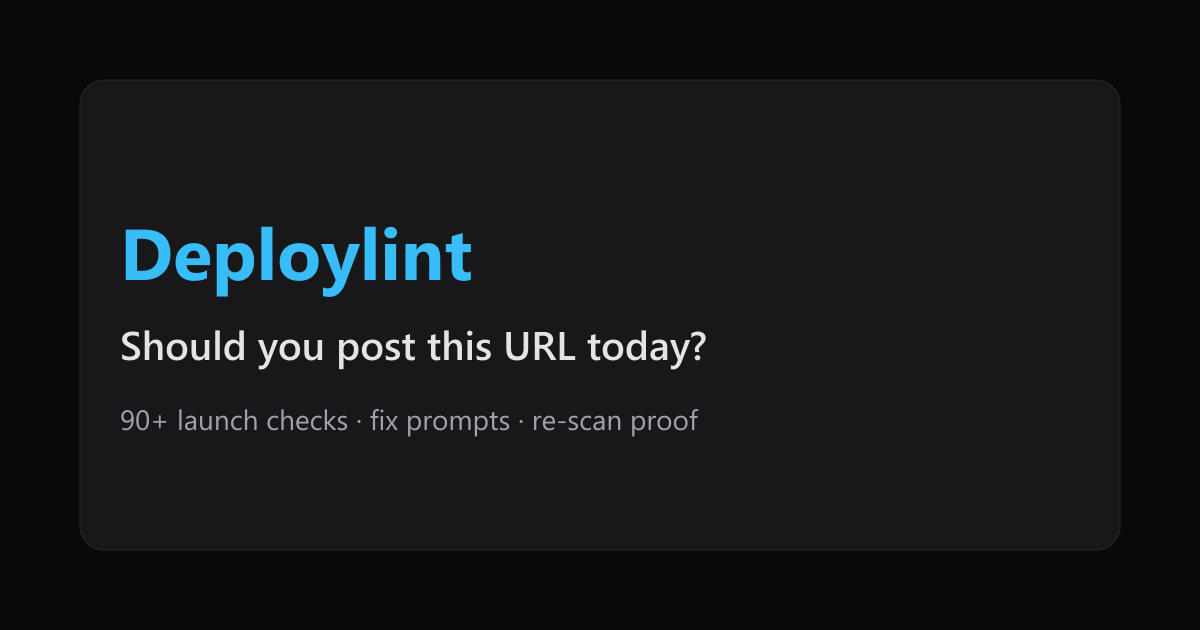
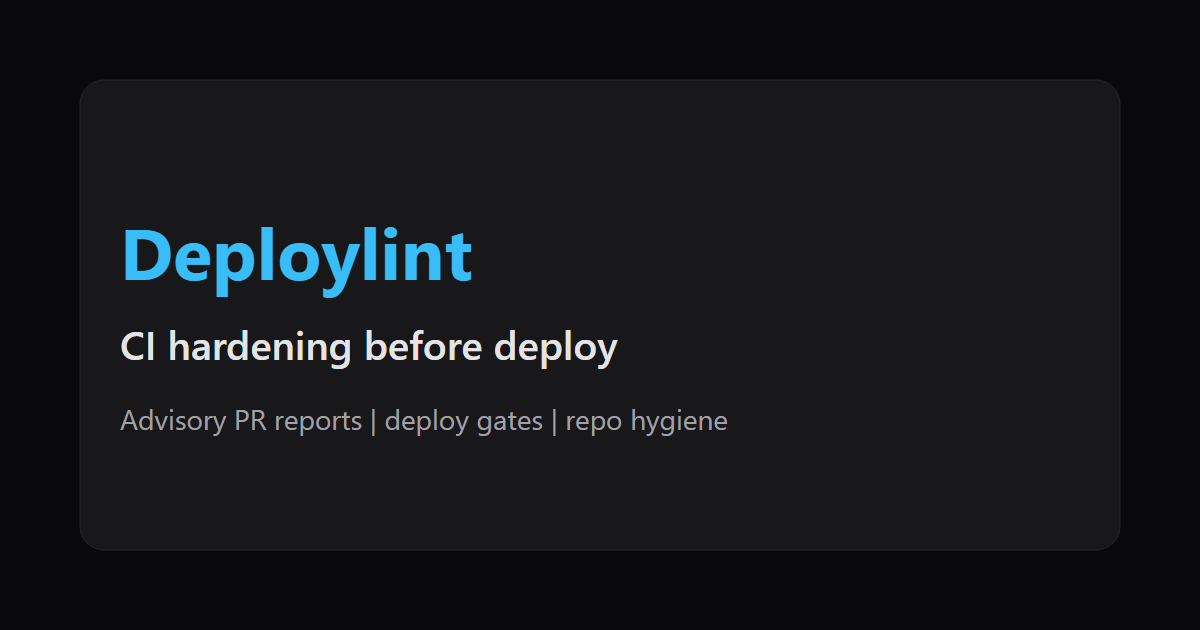
feat(preflight): sharpen CI product positioning

Changed region(s): [[0.0925, 0.5127, 0.5858, 0.6032], [0.0925, 0.6333, 0.6167, 0.6937]]

diff --git a/apps/preflight/src/routes/product-positioning.source.test.ts b/apps/preflight/src/routes/product-positioning.source.test.ts
@@ -6,9 +6,14 @@ import { describe, expect, it } from 'vitest';
 
 const routesDir = dirname(fileURLToPath(import.meta.url));
 const srcDir = join(routesDir, '..');
+const appDir = join(srcDir, '..');
 
 function source(...segments: string[]) {
 	return readFileSync(join(srcDir, ...segments), 'utf8');
+}
+
+function appSource(...segments: string[]) {
+	return readFileSync(join(appDir, ...segments), 'utf8');
 }
 
 describe('Deploylint CI workspace positioning', () => {
@@ -94,6 +99,48 @@ describe('Deploylint CI workspace positioning', () => {
 			expect(fileSource).not.toContain('before sharing');
 			expect(fileSource).not.toContain('sharing publicly');
 			expect(fileSource).not.toContain('before a big launch');
+		}
+	});
+
+	it('keeps first-impression surfaces from reading like a one-off URL scanner', () => {
+		const ogSvg = appSource('static', 'og.svg');
+		const loginPage = source('routes', 'login', '+page.svelte');
+		const homePage = source('routes', '+page.svelte');
+		const reportPage = source('routes', 'r', '[id]', '+page.svelte');
+		const reportSummary = source('lib', 'components', 'ReportSummary.svelte');
+		const preflightSession = source('lib', 'client', 'preflight-session.ts');
+		const unlockComparePanel = source('lib', 'components', 'UnlockComparePanel.svelte');
+
+		expect(ogSvg).toContain('CI hardening before deploy');
+		expect(ogSvg).toContain('Advisory PR reports | deploy gates | repo hygiene');
+		expect(loginPage).toContain('Sign in to manage deploy gates');
+		expect(loginPage).toMatch(/monitored\s+workspace/);
+		expect(homePage).toContain('Deploy target evidence');
+		expect(homePage).toMatch(/Add a live URL or repo\s+to the CI report/);
+		expect(reportPage).toContain('Advisory report');
+		expect(reportSummary).toContain('Copy advisory link');
+		expect(preflightSession).toContain('Add Deploylint to CI');
+		expect(unlockComparePanel).toContain('One-off report (you have this)');
+		expect(unlockComparePanel).toContain('Monitored project');
+
+		for (const fileSource of [
+			ogSvg,
+			loginPage,
+			homePage,
+			reportPage,
+			reportSummary,
+			preflightSession,
+			unlockComparePanel
+		]) {
+			expect(fileSource).not.toContain('Should you post this URL today?');
+			expect(fileSource).not.toContain('90+ launch checks');
+			expect(fileSource).not.toContain('dashboard becomes the product');
+			expect(fileSource).not.toContain('one-off scan session');
+			expect(fileSource).not.toContain('Secondary utility');
+			expect(fileSource).not.toContain('Shared report');
+			expect(fileSource).not.toContain('Copy report link');
+			expect(fileSource).not.toContain('Check yours free');
+			expect(fileSource).not.toContain('Free scan (you have this)');
 		}
 	});
 });

diff --git a/apps/preflight/src/routes/+page.svelte b/apps/preflight/src/routes/+page.svelte
@@ -435,7 +435,7 @@ jobs:
 
 	<form
 		class="mx-auto mb-10 max-w-2xl rounded-xl border border-zinc-800 bg-zinc-900/30 p-5 print:hidden"
-		aria-label="Secondary deploy target scan"
+		aria-label="Deploy target evidence"
 		onsubmit={(e) => {
 			e.preventDefault();
 			const trimmed = url.trim();
@@ -450,8 +450,10 @@ jobs:
 		}}
 	>
 		<div class="mb-4">
-			<p class="text-xs font-semibold tracking-widest text-zinc-500 uppercase">Secondary utility</p>
-			<h2 class="mt-2 text-lg font-semibold text-white">Audit a URL or repo as a deploy target</h2>
+			<p class="text-xs font-semibold tracking-widest text-zinc-500 uppercase">
+				Deploy target evidence
+			</p>
+			<h2 class="mt-2 text-lg font-semibold text-white">Add a live URL or repo to the CI report</h2>
 			<p class="mt-1 text-sm leading-6 text-zinc-400">
 				Use this for crawler, trust, payment, preview, and repo hygiene signals after the CI path is
 				under control.
@@ -474,7 +476,7 @@ jobs:
 				disabled={loading || !url.trim()}
 				class="rounded-xl bg-sky-600 px-6 py-3 font-semibold text-white hover:bg-sky-500 disabled:bg-sky-900 disabled:text-sky-100"
 			>
-				{loading ? 'Auditing…' : 'Audit target'}
+				{loading ? 'Auditing...' : 'Add target'}
 			</button>
 		</div>
 		{#if loading}

diff --git a/apps/preflight/src/routes/login/+page.svelte b/apps/preflight/src/routes/login/+page.svelte
@@ -89,11 +89,11 @@
 			Deploylint workspace
 		</p>
 		<h1 class="max-w-3xl text-3xl font-bold tracking-tight text-white sm:text-5xl">
-			Sign in before the dashboard becomes the product.
+			Sign in to manage deploy gates.
 		</h1>
 		<p class="mt-4 max-w-2xl text-base leading-7 text-zinc-400 sm:text-lg">
-			Attach reports, billing, project installs, and future GitHub gate state to a real account
-			instead of another one-off scan session.
+			Attach advisory reports, billing, project installs, and GitHub gate state to a monitored
+			workspace.
 		</p>
 	</section>
 

diff --git a/apps/preflight/src/lib/components/UnlockComparePanel.svelte b/apps/preflight/src/lib/components/UnlockComparePanel.svelte
@@ -37,7 +37,7 @@
 		<div class="mt-6 grid gap-4 md:grid-cols-2">
 			<div class="rounded-xl border border-zinc-700 bg-zinc-950/80 p-5">
 				<p class="text-xs font-semibold tracking-wider text-zinc-500 uppercase">
-					Free scan (you have this)
+					One-off report (you have this)
 				</p>
 
 				<ul class="mt-3 space-y-2 text-sm text-zinc-400">
@@ -52,7 +52,7 @@
 
 			<div class="rounded-xl border border-sky-500/40 bg-sky-500/5 p-5">
 				<p class="text-xs font-semibold tracking-wider text-sky-400 uppercase">
-					$9/mo Solo (fix + watch)
+					Monitored project - $9/mo Solo
 				</p>
 
 				<ul class="mt-3 space-y-2 text-sm text-zinc-200">

diff --git a/apps/preflight/src/lib/client/preflight-session.ts b/apps/preflight/src/lib/client/preflight-session.ts
@@ -249,7 +249,7 @@ export function buildShareText(report: ScanReport, appUrl: string): string {
 		hook,
 		`Score: ${report.score}/100 (${verdict}) - ${report.finalUrl}`,
 		...(permalink ? [`Report: ${permalink}`] : []),
-		`Check yours free: ${base}`
+		`Add Deploylint to CI: ${base}/developers`
 	];
 	return lines.join('\n');
 }

diff --git a/apps/preflight/src/lib/components/ReportSummary.svelte b/apps/preflight/src/lib/components/ReportSummary.svelte
@@ -201,7 +201,7 @@
 						class="rounded-lg border border-sky-500/50 bg-sky-500/10 px-3 py-1.5 text-xs font-medium text-sky-300 hover:bg-sky-500/20"
 						onclick={copyPermalink}
 					>
-						{linkCopied ? 'Link copied!' : 'Copy report link'}
+						{linkCopied ? 'Link copied!' : 'Copy advisory link'}
 					</button>
 					<button
 						type="button"

diff --git a/apps/preflight/src/routes/r/[id]/+page.svelte b/apps/preflight/src/routes/r/[id]/+page.svelte
@@ -72,7 +72,7 @@
 <div class="mx-auto max-w-5xl px-4 py-12">
 	<div class="mb-6 flex flex-wrap items-center justify-between gap-3">
 		<div>
-			<p class="text-xs font-semibold tracking-widest text-sky-400 uppercase">Shared report</p>
+			<p class="text-xs font-semibold tracking-widest text-sky-400 uppercase">Advisory report</p>
 			<p class="mt-1 text-sm text-zinc-400">
 				Scanned {new Date(report.scannedAt).toLocaleString()} · kept for 90 days
 			</p>